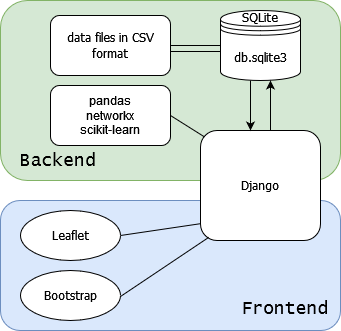
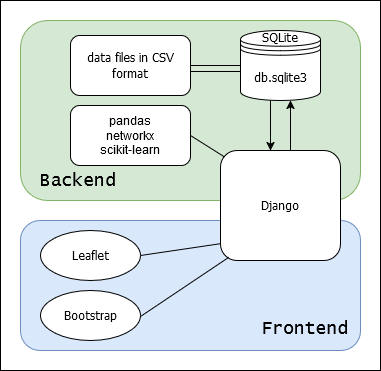
doc: add contact page, better app schema pic

diff --git a/thesis/app/documentation/ChantMapper_develop_doc.md b/thesis/app/documentation/ChantMapper_develop_doc.md
@@ -70,7 +70,7 @@ The computational part of the backend consists of functions in four files:
 
 
 ### Communication of main components
-The call flow of the functions described in previous section and the subsequent communication between the backend and the frontend is written in the django `views.py` file. In it we find eight important functions, each of which serves one of the seven pages in the application: `index`, `tool`, `datasets`, `geography` and `help`, `register`, `login`.
+The call flow of the functions described in previous section and the subsequent communication between the backend and the frontend is written in the django `views.py` file. In it we find eight important functions, each of which serves one of the seven pages in the application: `index`, `tool`, `datasets`, `geography` and `help`, `register`, `login`, `contact`.
 
 Passing data from backend to frontend templates can be done via two ways - setting `request.session` variable (dictionary) passed in request redirect or render or via `context` dictionary passed in render. Both can be easily parsed in coresponding HTML files thanks to Django template language. Both ways are used in our app.
 
